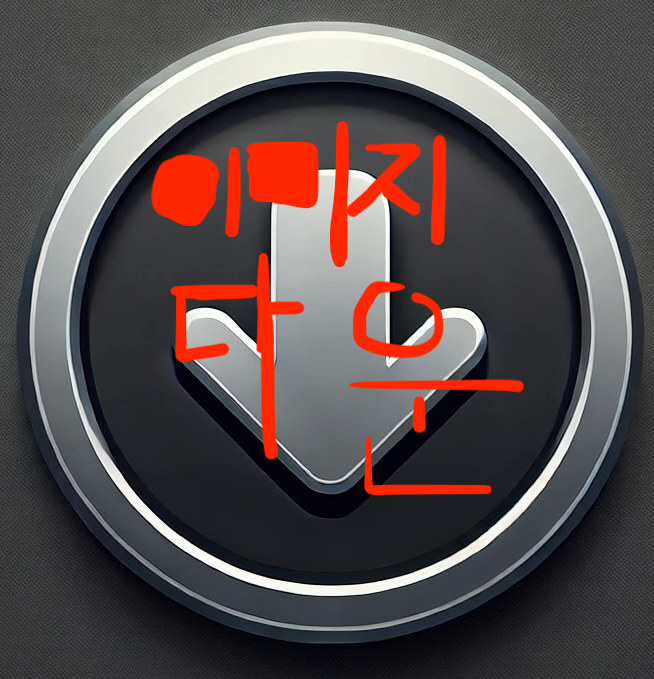
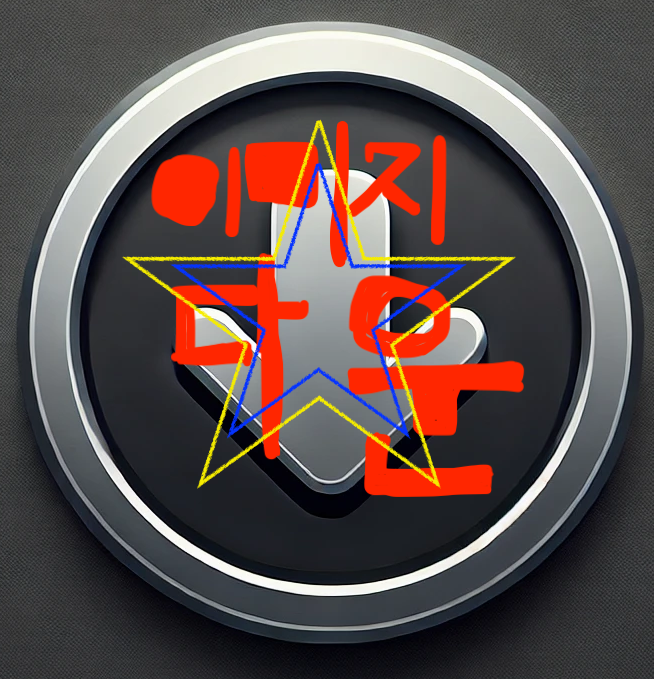
퍼미션 제거, 한글추가

diff --git a/popup.html b/popup.html
@@ -3,11 +3,11 @@
   <head>
     <meta charset="UTF-8" />
     <meta name="viewport" content="width=device-width, initial-scale=1.0" />
-    <title>Tmall Image Downloader</title>
+    <title>Taobao Image Downloader</title>
     <link rel="stylesheet" href="styles.css" />
   </head>
   <body>
-    <h1>Image Downloader</h1>
+    <h1>타오바오 이미지 다운로더</h1>
     <button id="start-download">Download Images</button>
     <div id="status-container" style="display: none">
       <p id="image-count"></p>
